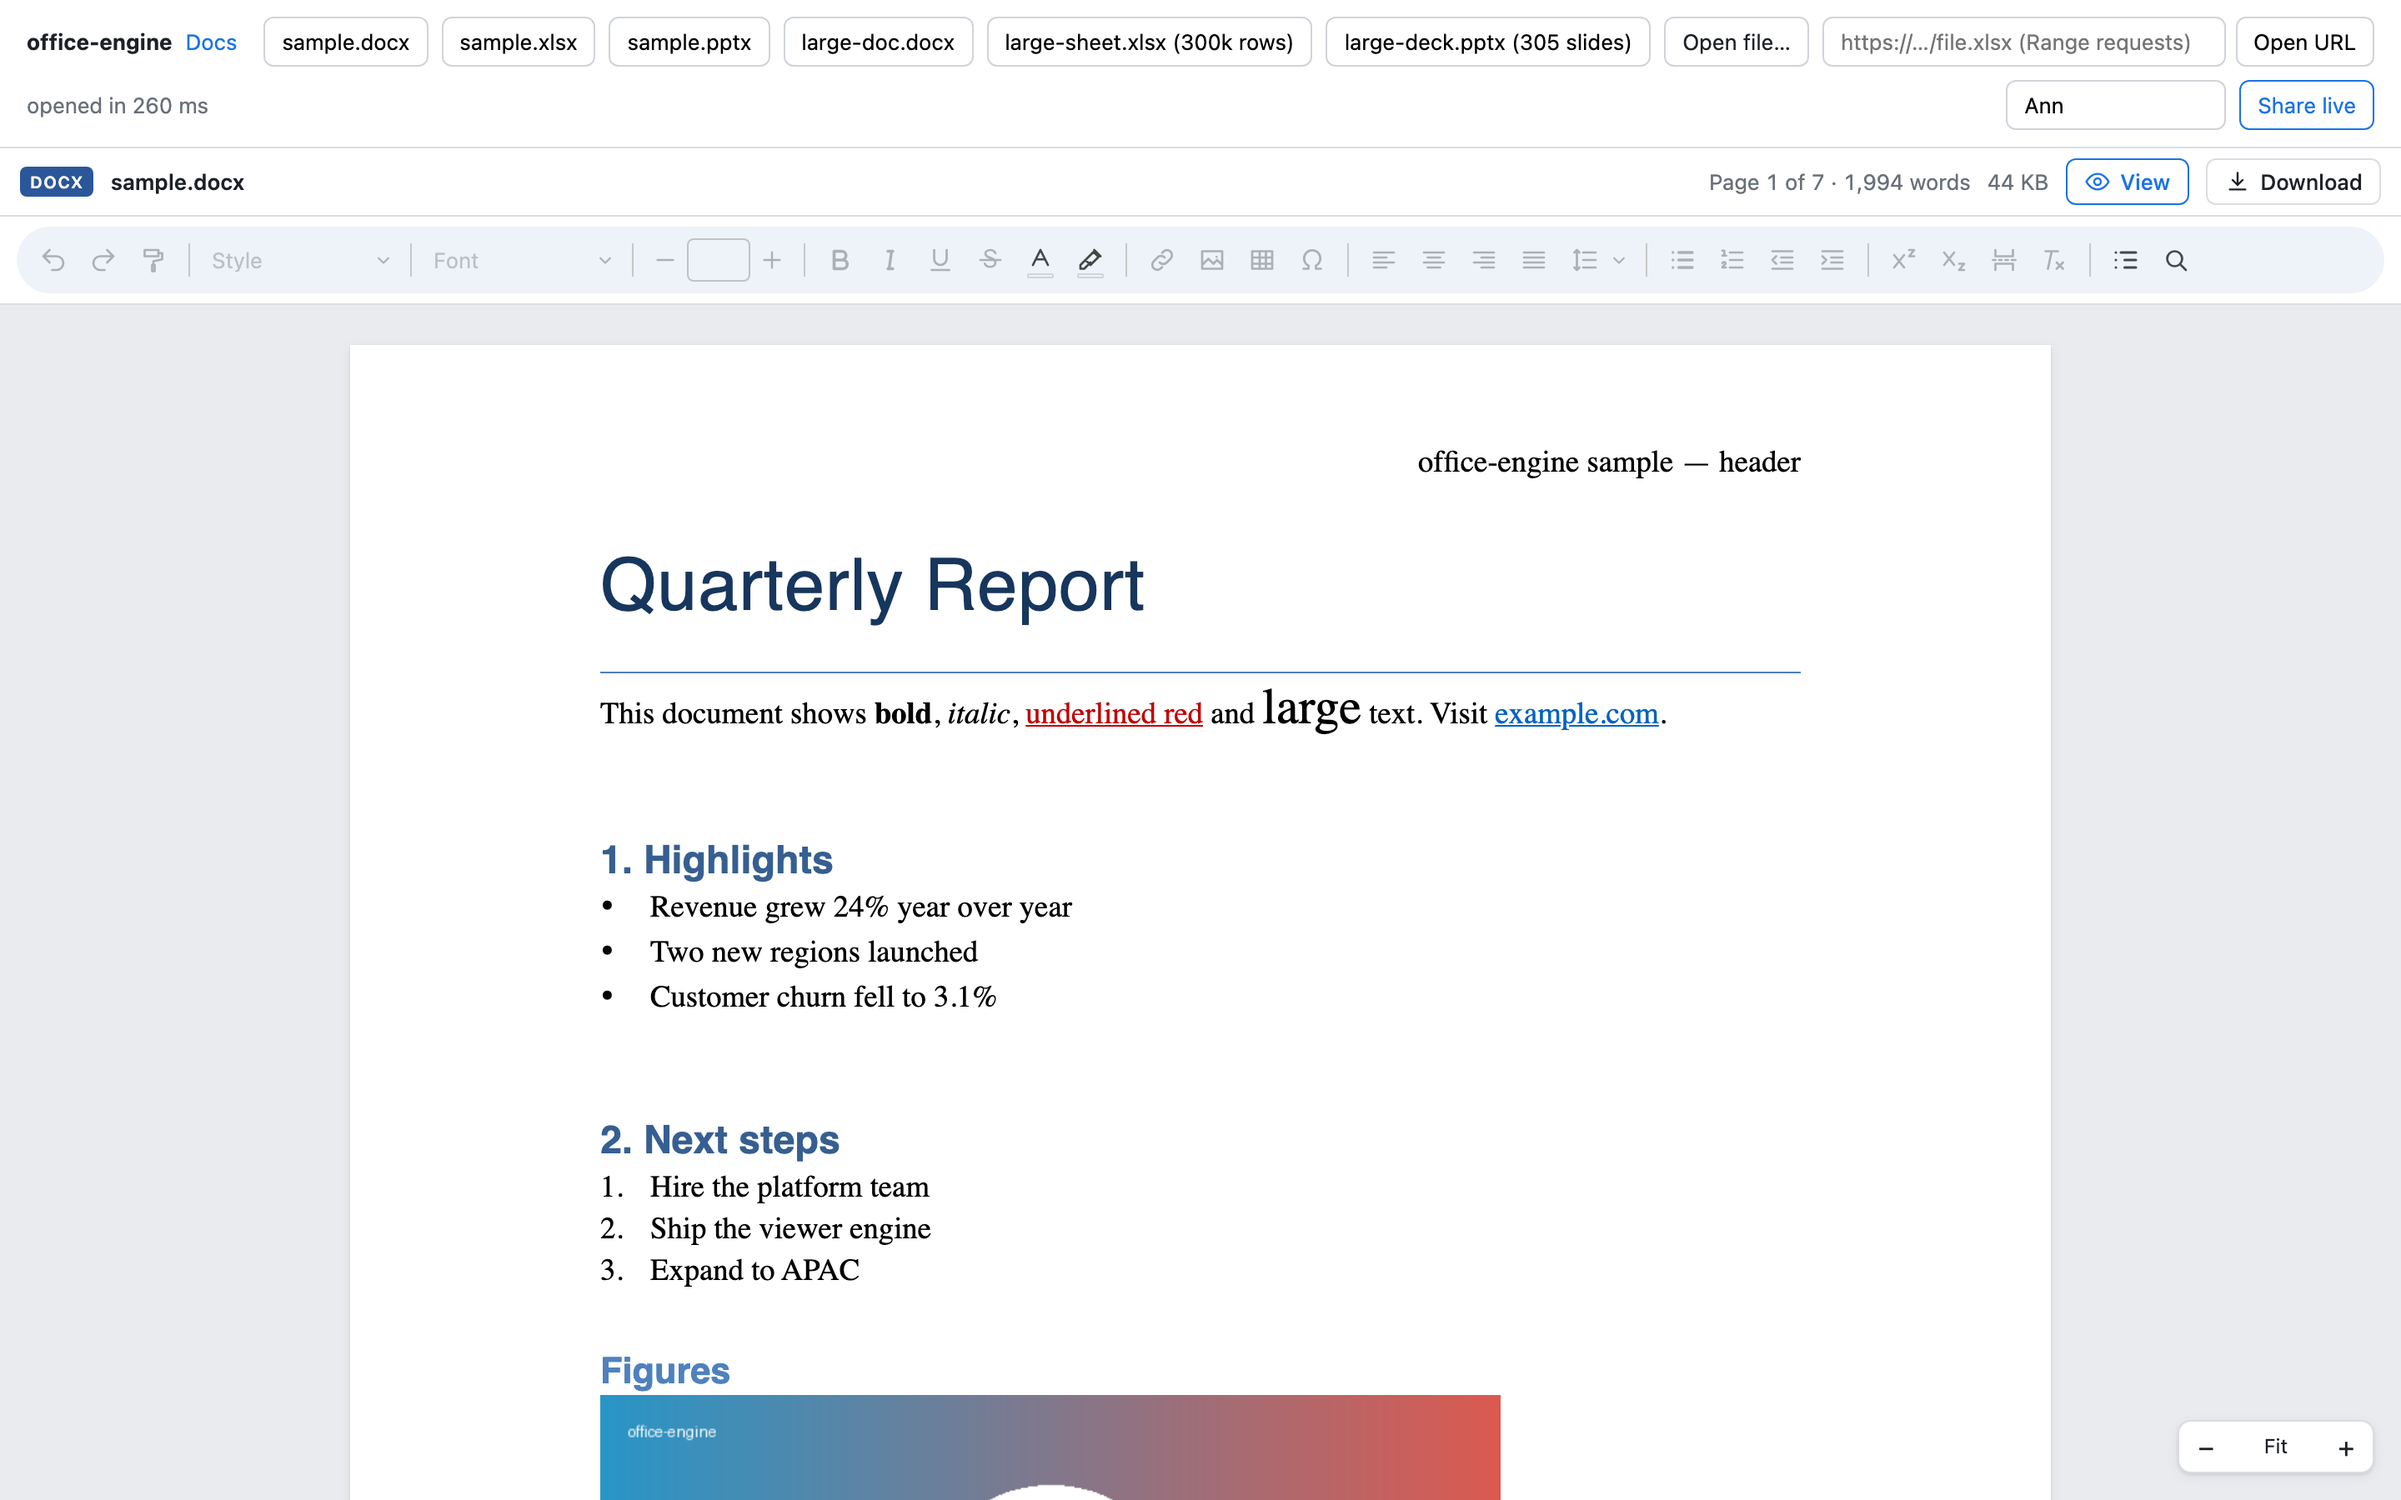
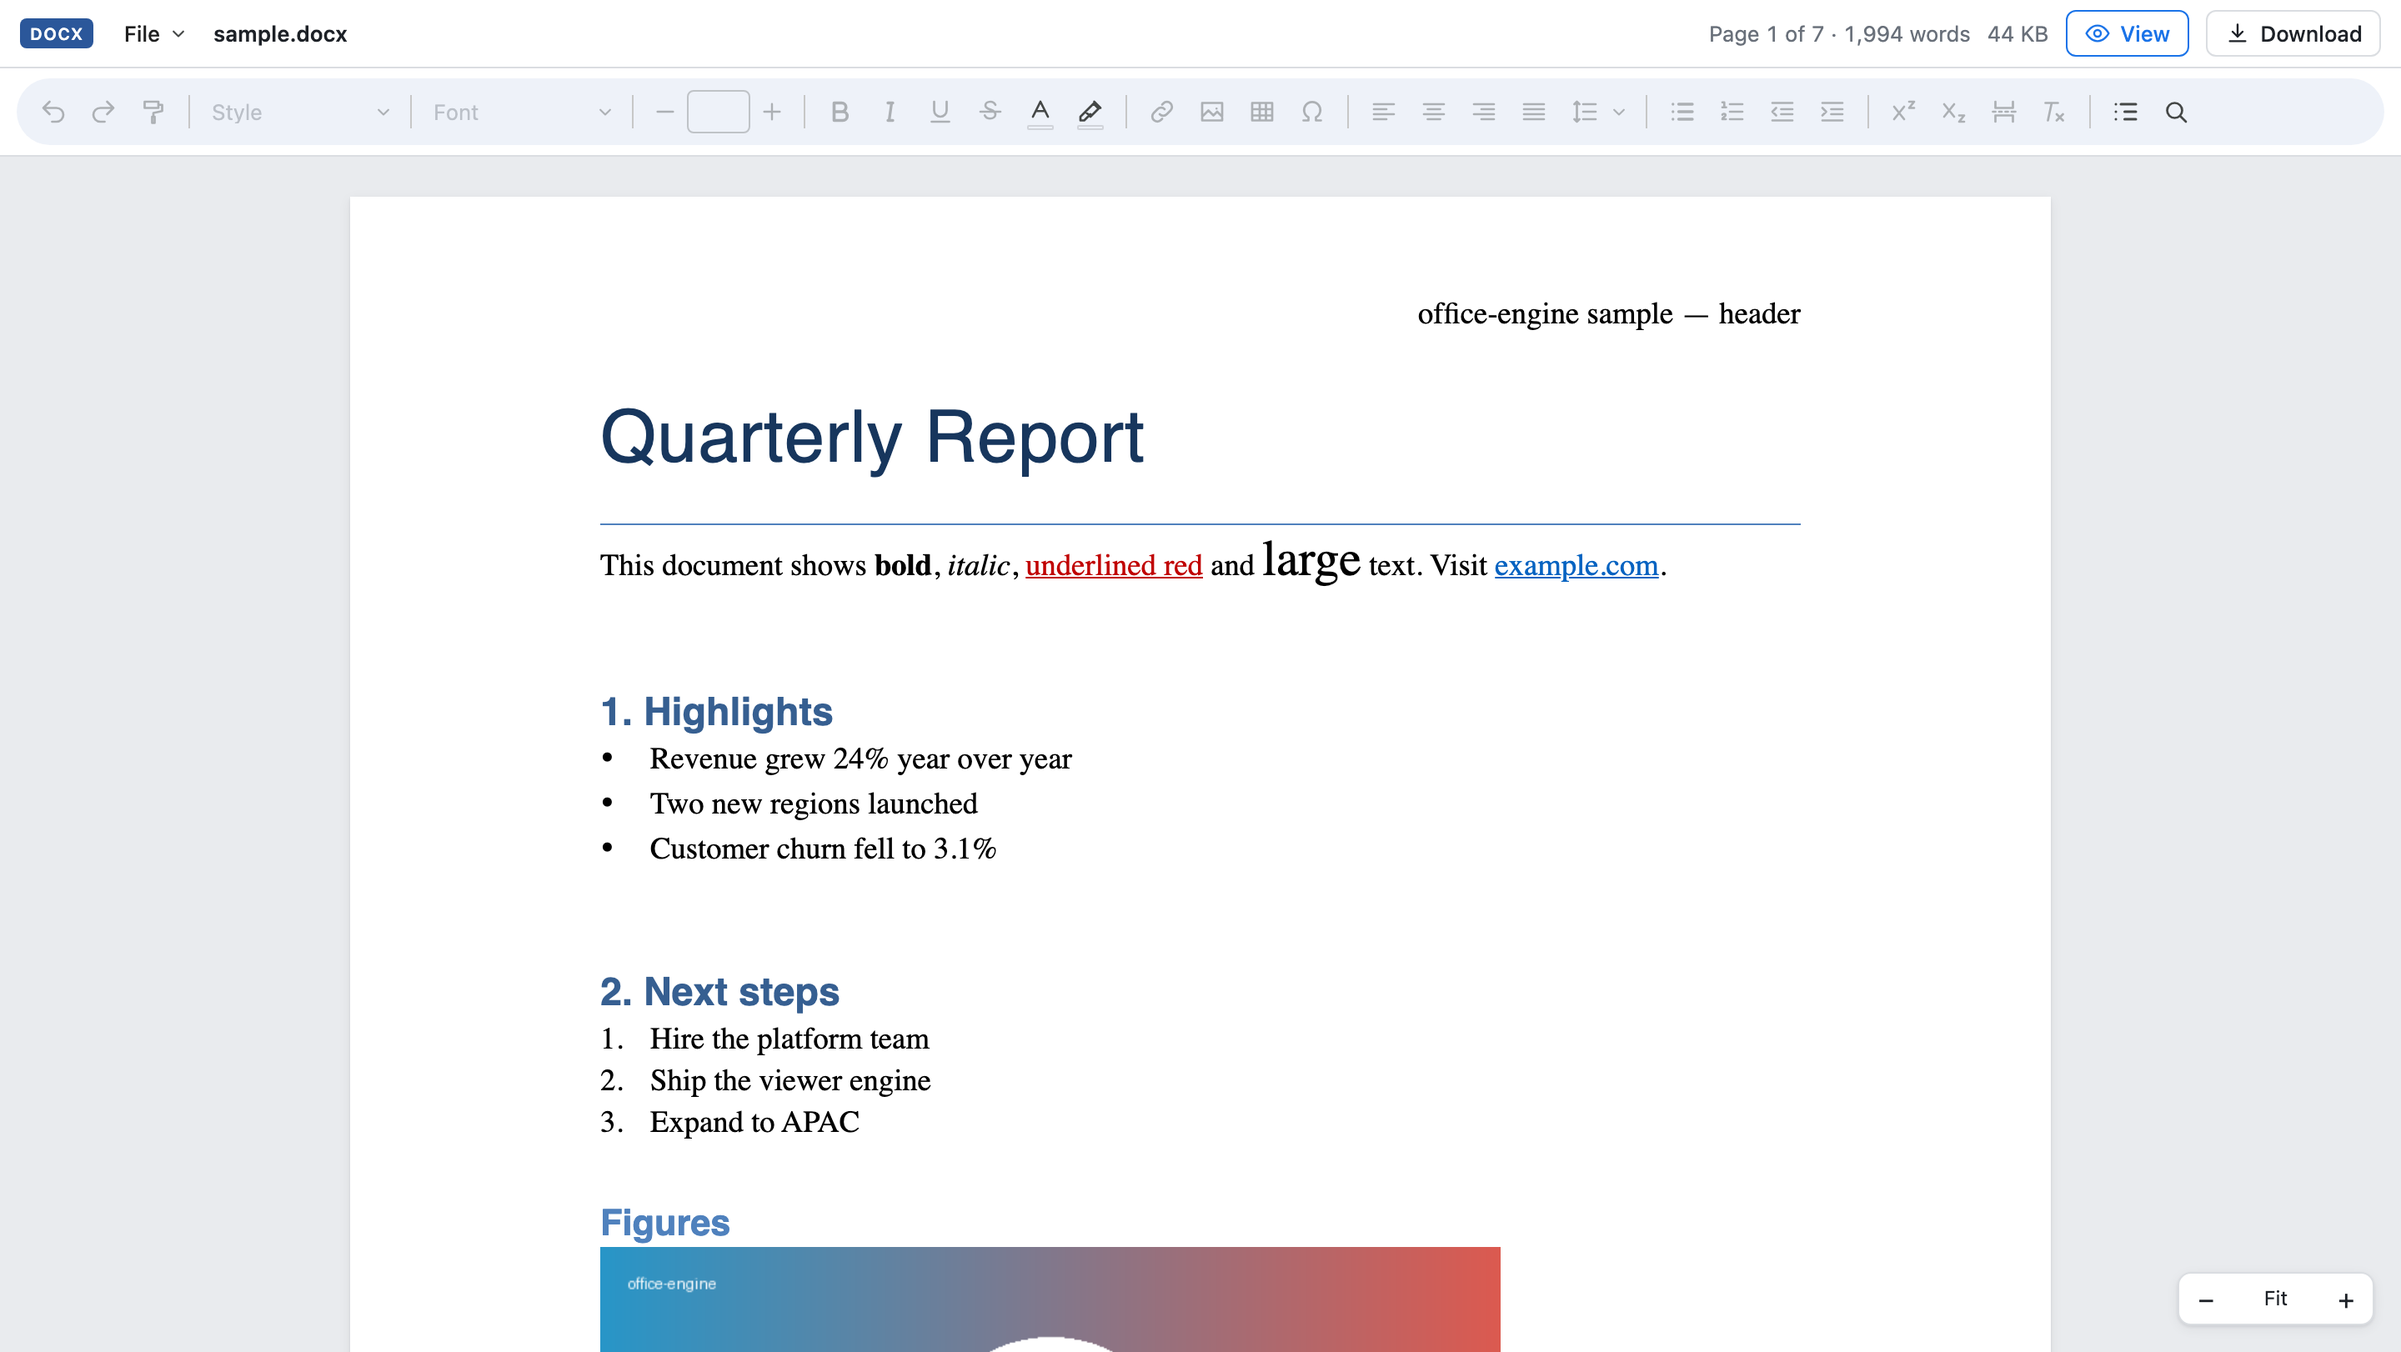
docs: add 300k-row xlsx screenshot and update readme layout and screenshot script

diff --git a/scripts/screenshots.ts b/scripts/screenshots.ts
@@ -1,11 +1,14 @@
 // README screenshots of the playground -> docs/screenshots/*.png
-// Usage: bun run screenshots   (needs a Chromium for playwright-core: `bunx playwright install chromium`)
+// Each shot is the viewer only (`.de-root`: File menu row and below), the playground chrome is cropped out.
+// Usage: bun run screenshots   (needs a Chromium for playwright-core: `bunx playwright install chromium`,
+//        and the large samples: `python3 scripts/fixtures.py`)
 import { mkdir } from 'node:fs/promises'
 import { chromium } from 'playwright-core'
 import { createServer } from 'vite'
 
 const OUT = 'docs/screenshots'
 const SHOTS = [
+  { name: 'xlsx-300k', src: 'samples/large-sheet.xlsx', ready: '.de-grid' },
   { name: 'docx', src: 'samples/sample.docx', ready: '.de-page-inner' },
   { name: 'xlsx', src: 'samples/sample.xlsx', ready: '.de-grid' },
   { name: 'pptx', src: 'samples/sample.pptx', ready: '.de-slide-inner' },
@@ -21,10 +24,11 @@ try {
   await page.addInitScript(() => localStorage.setItem('de-user', 'Ann')) // stable collaborator name
   for (const s of SHOTS) {
     await page.goto(`${base}?src=${encodeURIComponent(s.src)}`)
-    await page.getByText(/opened in \d+ ms/).waitFor({ timeout: 30_000 })
+    await page.getByText(/opened in \d+ ms/).waitFor({ timeout: 90_000 })
     await page.locator(s.ready).first().waitFor()
+    await page.locator('.de-bar').getByText(/loading/).waitFor({ state: 'hidden', timeout: 90_000 }) // full row count in the status
     await page.waitForTimeout(1500) // images, fonts, progressive layout
-    await page.screenshot({ path: `${OUT}/${s.name}.png` })
+    await page.locator('.de-root').screenshot({ path: `${OUT}/${s.name}.png` })
     console.log(`${OUT}/${s.name}.png`)
   }
 } finally {

diff --git a/README.md b/README.md
@@ -11,9 +11,13 @@ View + edit **DOCX / XLSX / PPTX** directly in the browser. Loads progressively 
 
 The demo has samples, heavy files (300k-row sheet, 305-slide deck), drag & drop your own file, edit and download.
 
-| DOCX                                      | XLSX                                      | PPTX                                      |
-|-------------------------------------------|-------------------------------------------|-------------------------------------------|
-| ![DOCX editor](docs/screenshots/docx.png) | ![XLSX editor](docs/screenshots/xlsx.png) | ![PPTX editor](docs/screenshots/pptx.png) |
+![300k-row XLSX open in the browser](docs/screenshots/xlsx-300k.png)
+
+![DOCX editor](docs/screenshots/docx.png)
+
+![XLSX editor](docs/screenshots/xlsx.png)
+
+![PPTX editor](docs/screenshots/pptx.png)
 
 ## Install
 
